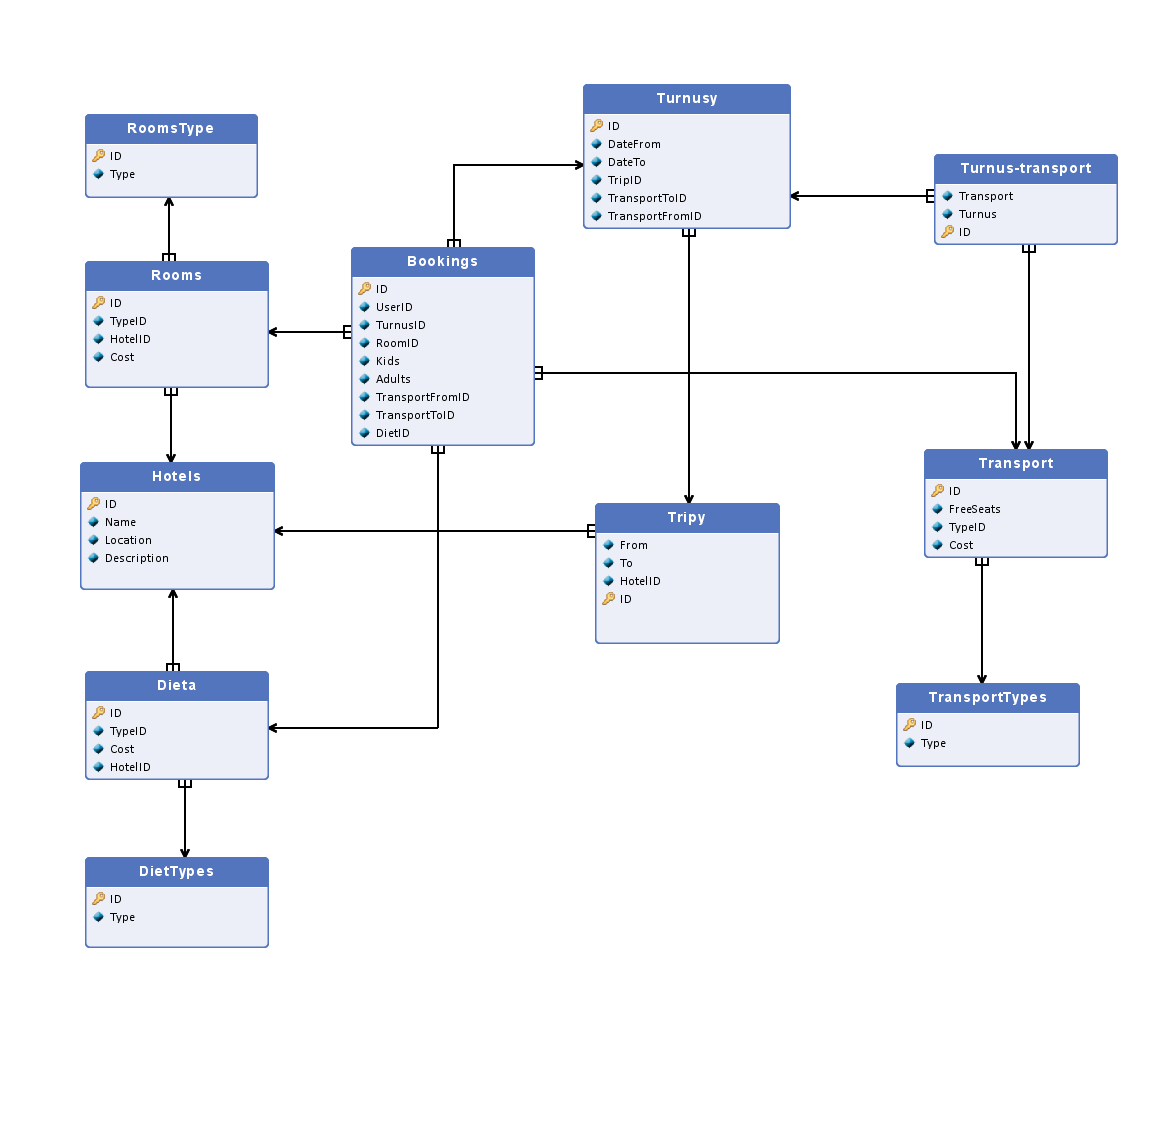
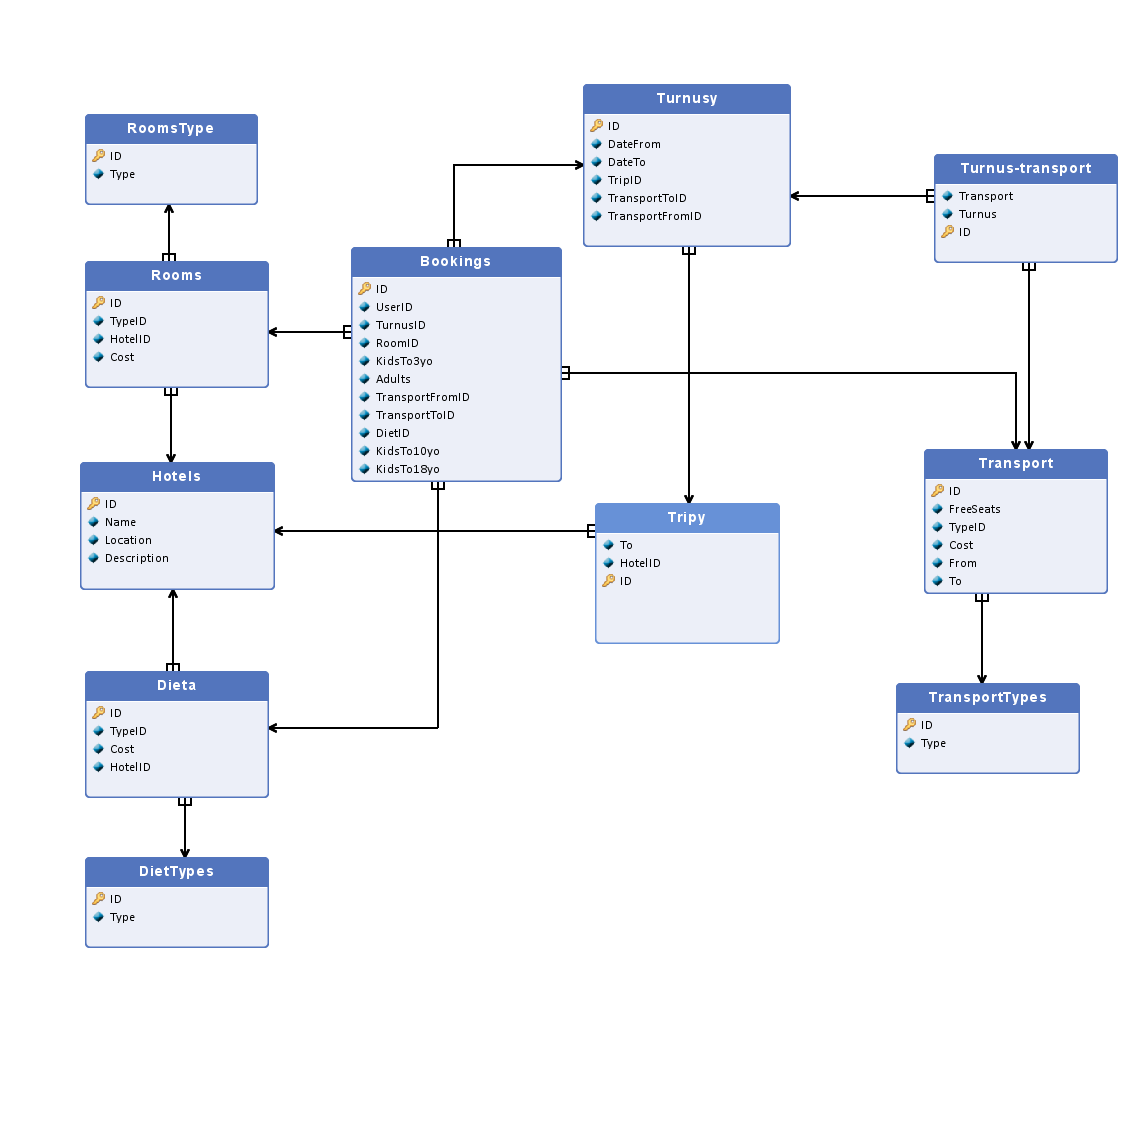
endpoint architecture

diff --git a/docs/project_requirements.md b/docs/project_requirements.md
@@ -1,6 +1,6 @@
 # Wymaganie projektowe
 1. Prezentacja oferty dostępnych miejsc turystycznych destynacji
-2. Wyszukiwanie wycieczki na podstawie następujących kryteriów: cel podróży, data wyjazdu, miejsce wyjazdu, liczba osób (z rozróżnieniem na osoby dorosłe i dzieci - do 3 lat, do 10 lat, do18 lat)
+2. Wyszukiwanie wycieczki na podstawie następujących kryteriów: cel podróży, data wyjazdu, miejsce wyjazdu, liczba osób (z rozróżnieniem na osoby dorosłe i dzieci - do 3 lat, do 10 lat, do 18 lat)
 3. Informowanie o dostępności oferty (oferta to wyjazd dla określonej konfiguracji: liczba i rodzaj osób, wybrany hotel w miejscu docelowym, wybrane rodzaje i ilość pokoi (mały, średni, duży, apartament, studio), wybrany rodzaj transportu (własny, pociąg, autobus, samolot), wybrany termin wyjazdu, ilość dni, wybrane posiłki, skorzystanie z dostępnej promocji)- dostępność ofert może się zmieniać w czasie rzeczywistym; jeżeli oferta dotyczy samolotu, to jest to konkretny lot i dysponujemy ograniczoną liczbą miejsc; jeden samolot może być związany z kilkoma podróżami – bo leci na jedno lotnisko w kraju docelowym – więc w samolocie może zabraknąć miejsc
 4. Kalkulacja ceny dla wybranej oferty -.zaproponować w dokumentacji kalkulację ceny, algorytm, który uwzględnia atrybuty wymienione w opisie oferty
 5. Możliwość rezerwacji wybranej oferty (automatycznie zasoby związane z konfiguracją powinny stać się niedostępne dla innych klientów przez 1 minutę; po tym czasie, jeśli nie zostanie wykupiona, zarezerwowane zasoby wracają do puli) z symulacją oczekiwania na zaliczkę kartą (dla losowych transakcji należy zwrócić odpowiedź, że płatność nie powiodła się)

diff --git a/docs/endpoints.md b/docs/endpoints.md
@@ -1,0 +1,58 @@
+# Design endpointów
+
+## WEB_UI
+
+#### AMQP Live events
+```json
+{
+    "placeholder" : "example"
+}
+```
+
+## Tour Researcher
+
+#### Rest
+`GET /api/v1/trips?`
+
+Jeśli jakiegoś paramu nie ma to zakładamy że dowolny
+
+Params:
+- adults : number
+- kidsTo3yo : number
+- kidsTo10yo : number
+- kidsTo18yo : number
+- date-from : date
+- date-to : date
+- departure-region : string
+- arrival-region : string
+- transport : string
+- order : string
+- diet : string
+- max-price : int
+
+`GET /api/v1/trips/{trip_id}`
+
+#### AMQP
+```
+CRUD wycieczkowy
+```
+
+## Director
+
+TBD
+
+## User handler
+
+#### Rest
+
+`POST /api/v1/users/login`
+
+`POST /api/v1/users/register`
+
+`GET /api/v1/users/`
+
+`GET /api/v1/users/{user_id}`
+
+`DELETE /api/v1/users/{user_id}`
+
+`PUT /api/v1/users/{user_id}`
